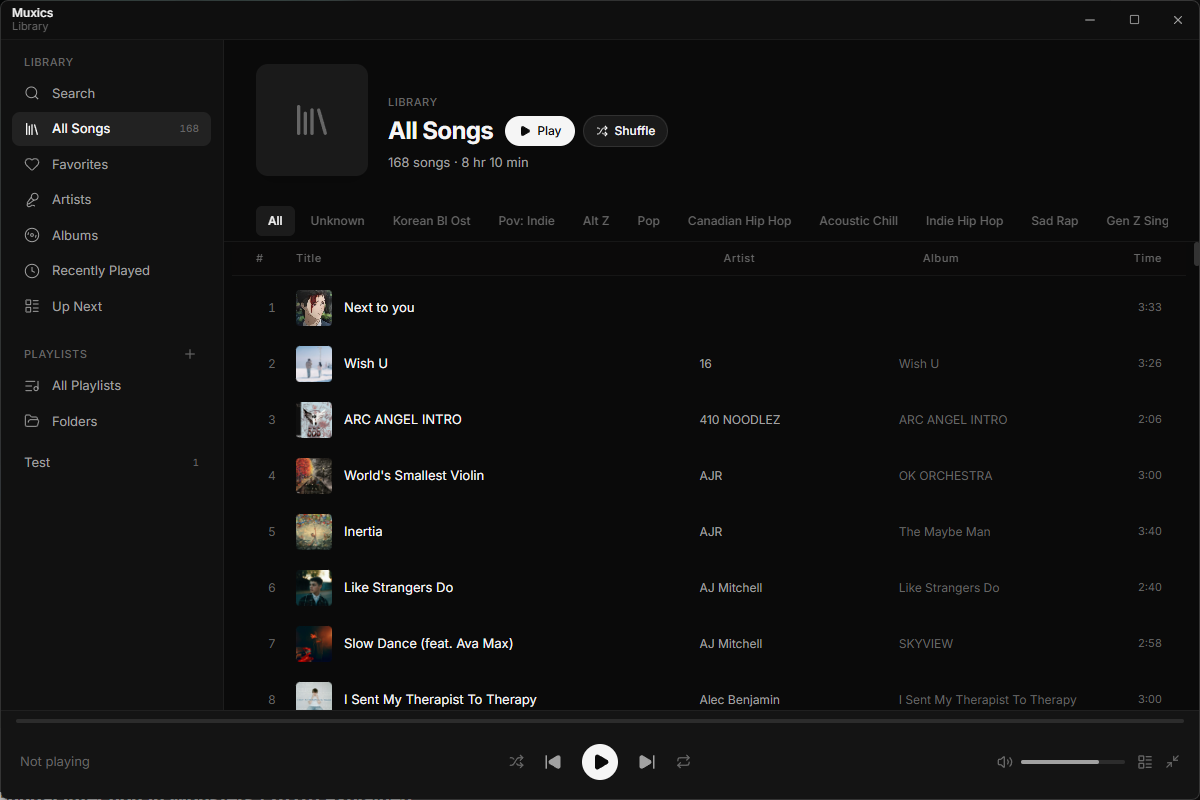
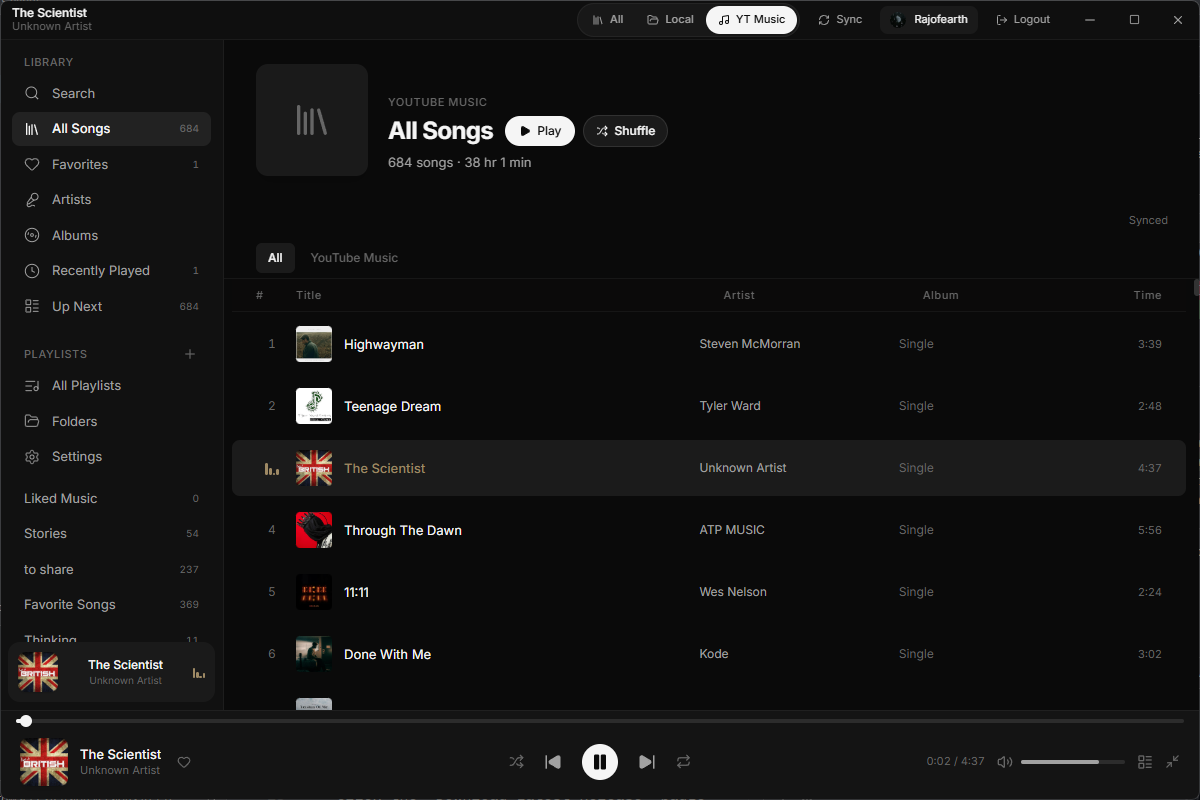
Add YouTube streaming note and mini image

diff --git a/README.md b/README.md
@@ -3,14 +3,17 @@
 [![Download Latest Release](https://img.shields.io/badge/Download-Latest%20Release-blue?logo=github)](https://github.com/rajofearth/muxics/releases/latest)
 [![License](https://img.shields.io/badge/License-See%20LICENSE-lightgrey)](https://github.com/rajofearth/muxics/blob/main/LICENSE)
 
-A Winamp-inspired cross-platform desktop music player built with Electron, React, Vite, and Tailwind CSS.
+A Winamp-inspired cross-platform desktop music player and unofficial YouTube client — supports streaming from YouTube as well as local music playback. Built with Electron & React.
 
 <p align="center">
   <img width="900" alt="app" src="/assets/main.jpeg">
 </p>
+<p align="center">
+  <img height="300" alt="mini player" src="/assets/mini.png">
+</p>
 
 Summary
-- 🎵 Cross-platform desktop app (macOS, Windows, Linux) with a nostalgic Winamp look.
+- 🎵 Cross-platform desktop app (macOS, Windows, Linux). Also functions as an unofficial YouTube client for streaming alongside local music playback.
 - ⚡ Renderer built with React + Vite. Electron main & preload built with TypeScript (tsup).
 - 📦 Packaged with `electron-builder` — artifacts land in `artifacts/` (AppImage / dmg / nsis / zip).
 

diff --git a/AGENTS.md b/AGENTS.md
@@ -46,6 +46,22 @@
    - Playlist create/rename/delete/add/remove
    - Track switching
 
+## Future Plans
+- **Enhanced Search/Home Page**: Incorporate YT Music's home sections into the UI, including:
+  - Listen again
+  - Fresh finding and favs
+  - Shows for you
+  - From community
+  - Quick picks
+  - Long listens
+  - From your library
+  - "Similar to __" sections
+- **Offline Downloads**:
+  - Implement a download feature for individual tracks and full playlists to save them permanently.
+  - Modify the playback engine to always prefer playing from locally downloaded files instead of streaming. if the track is downloaded.
+- **Settings Redesign**:
+  - Update the settings page to be minimal and clean, reducing "options hell" and simplifying configuration.
+
 ## Useful Files
 - `src/electron/backend/ytmusic.ts`
 - `src/electron/backend/ytmusicHomeSnapshot.ts`
